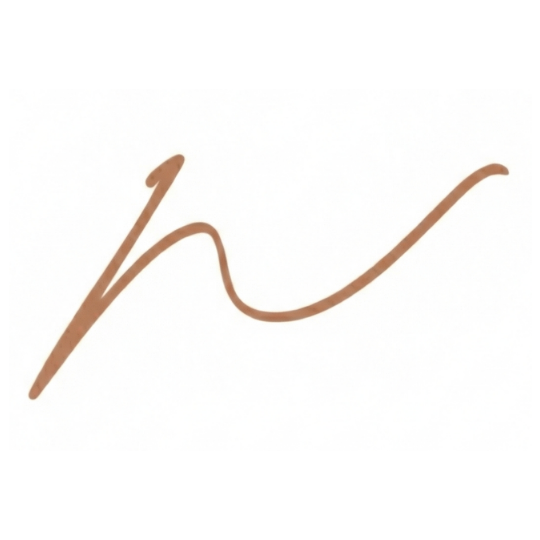
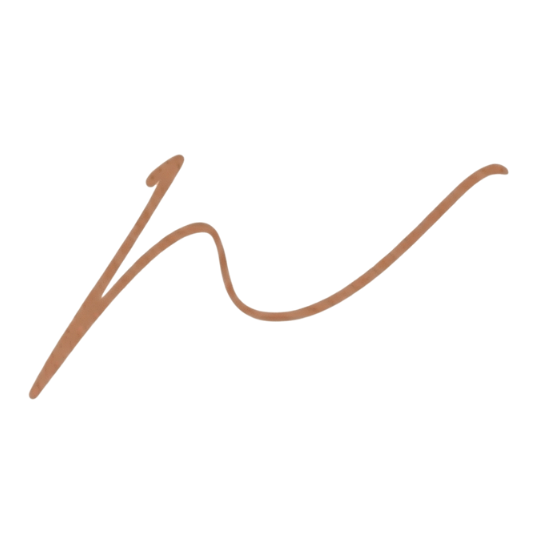
update image sizes and new signature

diff --git a/src/App.tsx b/src/App.tsx
@@ -97,7 +97,7 @@ export default function App() {
               <img
                 src={fotoSessao1}
                 alt="Havilah Nasser"
-                className="object-contain object-bottom scale-[2.2] md:scale-[2.5] origin-bottom drop-shadow-2xl translate-y-2 lg:translate-x-8"
+                className="object-contain object-bottom scale-[1.5] md:scale-[1.75] origin-bottom drop-shadow-2xl translate-y-2 lg:translate-x-8"
               />
 
               {/* Circular Badge */}
@@ -375,7 +375,7 @@ export default function App() {
               <img
                 src={fotoSessao2}
                 alt="Havilah Nasser"
-                className="object-contain object-bottom scale-[2.2] md:scale-[2.5] origin-bottom drop-shadow-2xl relative z-20 translate-y-2 lg:translate-x-12"
+                className="object-contain object-bottom scale-[1.3] md:scale-[1.5] origin-bottom drop-shadow-2xl relative z-20 translate-y-2 lg:translate-x-12"
               />
 
               {/* Circular Badge - Positioned on the left of the image */}
